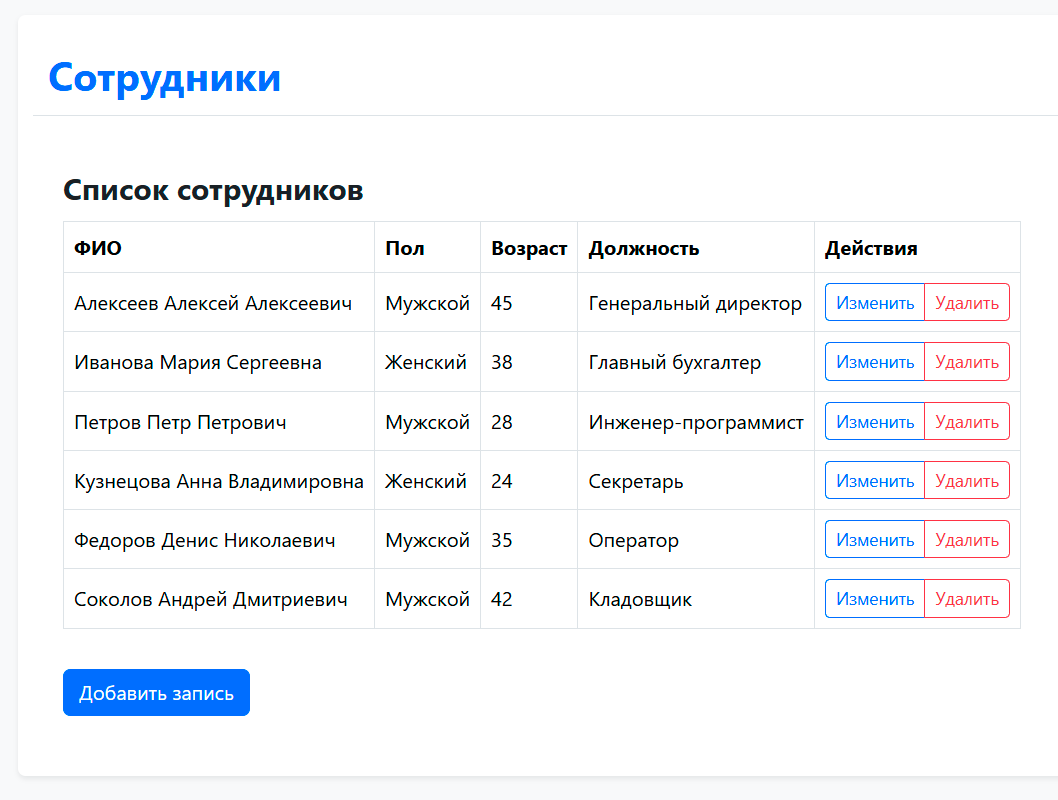
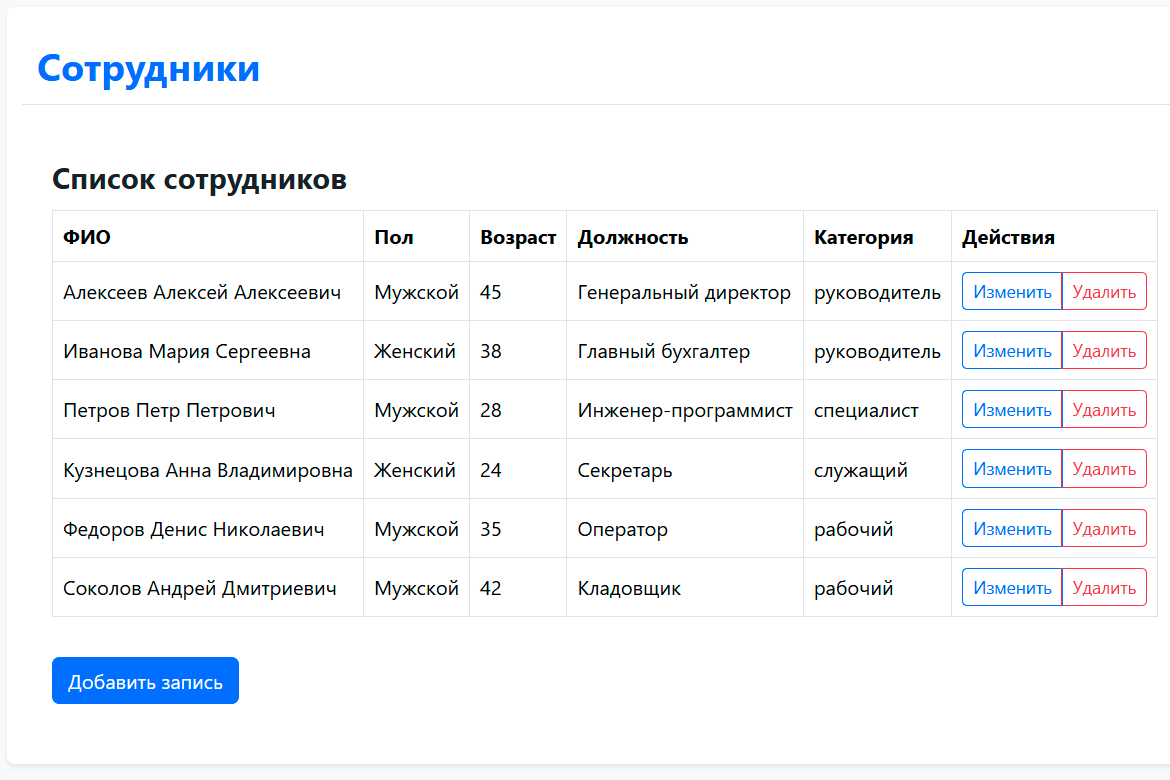
Добавлено поле category в отображение таблицы Сотрудников. Внесены соответствующие изменения в бэкенде и реализована фильтрация полей с параметром editable==false для формы редактирования. Исправлено описание и скриншот таблицы в readme.

diff --git a/static/js/form-controller.js b/static/js/form-controller.js
@@ -111,7 +111,14 @@ export class FormController {
         </div>
         `
 
-        const inputElements = getVisibleMetaFields(tableMeta).map( field => {
+        // В форму ввода выводятся только поля:
+        // - визуально видимые (hidden == false)
+        // - разрешено редактирование (editable == true)
+        const editableFields = getVisibleMetaFields(tableMeta).filter(
+            field => field.editable
+        );
+
+        const inputElements = editableFields.map( field => {
             const fieldElement = createNode('div', { class: 'mb-3 text-start' });
 
             const labelElement = createNode('label', { 

diff --git a/static/js/api.d.ts b/static/js/api.d.ts
@@ -28,13 +28,13 @@ export interface FieldMeta {
     name: string;
     label: string;
     type: 'string' | 'number' | 'select' | 'boolean' | 'foreign_key';
-    required?: boolean;
-    editable?: boolean;
-    hidden?: boolean;
+    required: boolean;
+    editable: boolean;
+    hidden: boolean;
+    unique: boolean;
     min_value?: number;
     max_value?: number;
     max_length?: number;
-    unique: boolean;
     options?: SelectOption[];
     reference?: ReferenceMeta;
 }

diff --git a/staffapp/employee_api_view.py b/staffapp/employee_api_view.py
@@ -42,7 +42,8 @@ class EmployeeAPIView(BaseAPIView):
                     e.full_name, 
                     e.gender, 
                     e.age,
-                    json_build_object('value', e.position_id::text, 'label', p.title) AS position_id
+                    json_build_object('value', e.position_id::text, 'label', p.title) AS position_id,
+                    p.category
                 FROM employees e
                 LEFT JOIN positions p ON e.position_id = p.id
                 WHERE e.id = %s;
@@ -75,7 +76,8 @@ class EmployeeAPIView(BaseAPIView):
                         e.full_name, 
                         e.gender, 
                         e.age,
-                        json_build_object('value', e.position_id::text, 'label', p.title) AS position_id
+                        json_build_object('value', e.position_id::text, 'label', p.title) AS position_id,
+                        p.category
                     FROM employees e
                     LEFT JOIN positions p ON e.position_id = p.id
                     ORDER BY e.id

diff --git a/staffapp/employee_meta.py b/staffapp/employee_meta.py
@@ -51,6 +51,12 @@ table_meta: TableMeta = TableMeta(
                 value_field="id",
                 label_field='title'
             )
+        ),
+        FieldMeta(
+            name="category",
+            label="Категория",
+            type="string",
+            editable=False
         )
     ]
 )

diff --git a/readme.md b/readme.md
@@ -93,7 +93,8 @@ FROM (
         e.full_name, 
         e.gender, 
         e.age,
-        json_build_object('value', e.position_id::text, 'label', p.title) AS position_id
+        json_build_object('value', e.position_id::text, 'label', p.title) AS position_id,
+        p.category
     FROM employees e
     LEFT JOIN positions p ON e.position_id = p.id
     ORDER BY e.id
